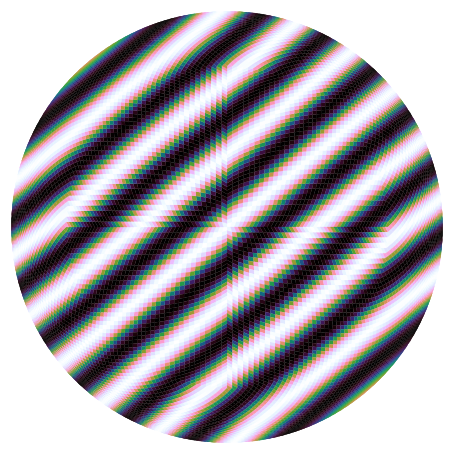
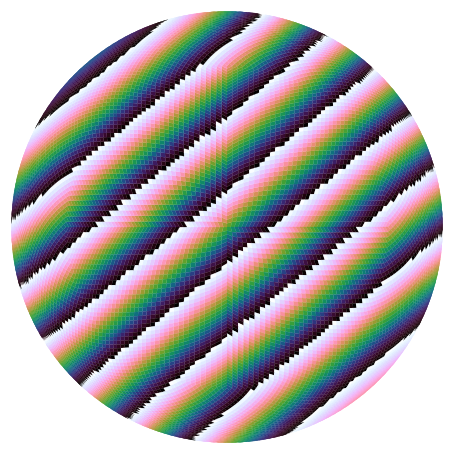
Move to phase images

diff --git a/tart_workshop/tart_imaging/tart_imaging.tex b/tart_workshop/tart_imaging/tart_imaging.tex
@@ -217,6 +217,35 @@ Well its geometry. A bit of diagram drawing gives.
   \includegraphics[width=\linewidth]{images/all_fringes.png}
 \end{frame}
 
+
+\begin{frame}{Multiplying Fringes}
+ If a fringe is multiplied by a complex number $r e^{i \psi}$, then the phase component of the fringe $F(\theta, \phi)$ is shifted.
+\begin{columns}
+ \begin{column}{0.5\linewidth}
+    \begin{minipage}{\linewidth}
+    $e^{i 0.00}$ = \raisebox{-0.4\height}{\includegraphics[height=1cm]{images/harmonics-phase/fringe_0_0.png}}
+    \end{minipage}
+    \begin{minipage}{\linewidth}
+      $e^{i 1.05}$ = \raisebox{-0.4\height}{\includegraphics[height=1cm]{images/harmonics-phase/fringe_0_1.0471975511965976.png}}
+    \end{minipage}
+    \begin{minipage}{\linewidth}
+      $e^{i 2.09}$ = \raisebox{-0.4\height}{\includegraphics[height=1cm]{images/harmonics-phase/fringe_0_2.0943951023931953.png}}
+    \end{minipage}
+    \begin{minipage}{\linewidth}
+      $e^{i 3.14}$ = \raisebox{-0.4\height}{\includegraphics[height=1cm]{images/harmonics-phase/fringe_0_3.141592653589793.png}}
+    \end{minipage}
+    \begin{minipage}{\linewidth}
+      $e^{i 4.18}$ = \raisebox{-0.4\height}{\includegraphics[height=1cm]{images/harmonics-phase/fringe_0_4.1887902047863905.png}}
+    \end{minipage}
+    \begin{minipage}{\linewidth}
+      $e^{i 5.23}$ = \raisebox{-0.4\height}{\includegraphics[height=1cm]{images/harmonics-phase/fringe_0_5.235987755982988.png}}
+    \end{minipage}
+ \end{column}
+\begin{column}{0.5\linewidth} $e^{2 \pi}$ = \raisebox{-0.4\height}{ \includegraphics[height=4cm]{images/harmonics-phase/fringe_0_6.283185307179586.png}}
+\end{column}
+\end{columns}
+\end{frame}
+
 \section{Imaging is now easy}
 
 \frame{\tableofcontents[currentsection]}
@@ -227,6 +256,7 @@ Well its geometry. A bit of diagram drawing gives.
   The sky is the sum of the fringes multiplied by their visibility.
  \end{block}
 \end{frame}
+
 
 \begin{frame}{Adding fringes}
 \begin{minipage}{\linewidth}
@@ -287,6 +317,46 @@ Well its geometry. A bit of diagram drawing gives.
 \includegraphics[width=\linewidth]{images/demo-time.jpg}
 \end{frame}
 
+\begin{frame}{Stimela}
+ Modern framework for automating radio astronomy imaging. Describes each steps required to process the data.
+ \begin{block}{Docs}
+\url{https://stimela.readthedocs.io/en/latest/}
+\end{block}
+ \begin{block}{tart-cargo}
+\url{https://github.com/tart-telescope/tart-cargo}
+\end{block}
+ \begin{block}{cult-cargo}
+\url{https://github.com/caracal-pipeline/cult-cargo}
+\end{block}
+\end{frame}
+
+\begin{frame}[fragile]{Stimela: Hello World}
+
+\begin{lstlisting}[style=yaml]
+_include:
+    - (tartcargo):
+        - tart-download-data.yml
+
+tart-image:
+    inputs:
+        tart:
+            dtype: str
+            required: true
+            info: "TART name (e.g. mu-udm)"
+
+    assign:
+        api: 'https://api.elec.ac.nz/tart/{recipe.tart}'
+
+    steps:
+        download-hdf:
+            cab: tart-download-data
+            params:
+                api: =recipe.api
+                vis: true
+                file: "{recipe.tart}.hdf"
+
+\end{lstlisting}
+\end{frame}
 
 % \begin{frame}{Calibration}
 %  This is dark magic. Ben and Oleg are the experts. This is where all the work goes in on real telescopes.
@@ -312,18 +382,15 @@ Well its geometry. A bit of diagram drawing gives.
 \section{Stimela pipeline for TART}
 
 
-\begin{frame}{Stimela}
- Modern framework for automating radio astronomy imaging. Describes each steps required to process the data. In our case these are:
+\begin{frame}{A very simple TART pipeline}
+Four basic steps:
  \begin{enumerate}
   \item Download data from a TART (mu-udm)
-  \item Create a measurement set
-  \item Image the measurement set
-  \item Write the image to a 2D image format
+  \item Create a \href{https://casa.nrao.edu/Memos/229.html}{measurement set}.
+  \item \href{https://github.com/tmolteno/disko}{DiSkO Image} the measurement set
+  \item Write the image to a 2D image format (SVG)
  \end{enumerate}
-We describe this using a stimela recipe. Just a text file.
-\begin{block}{Docs}
-\url{https://stimela.readthedocs.io/en/latest/}
-\end{block}
+We specify these steps using a stimela recipe...
 \end{frame}
 
 
@@ -476,10 +543,10 @@ TART data and control are done throught a web-based API.
   \begin{column}{0.6\linewidth}
     \begin{itemize}
     \item Imaging isn't too hard.
-    \item Projects ideas: Trying different TART imaging ideas
+    \item Project idea: Trying different TART imaging ideas
     \item Project idea: Use Machine learning!
     \item More projects: Tools for calibration of arrays.
-    \item More projects: Bigger, more directional antennas.
+    \item More projects: Bigger, more directional antennas. More gain, less field of view.
     \end{itemize}
   \end{column}
   \begin{column}{0.4\linewidth}
